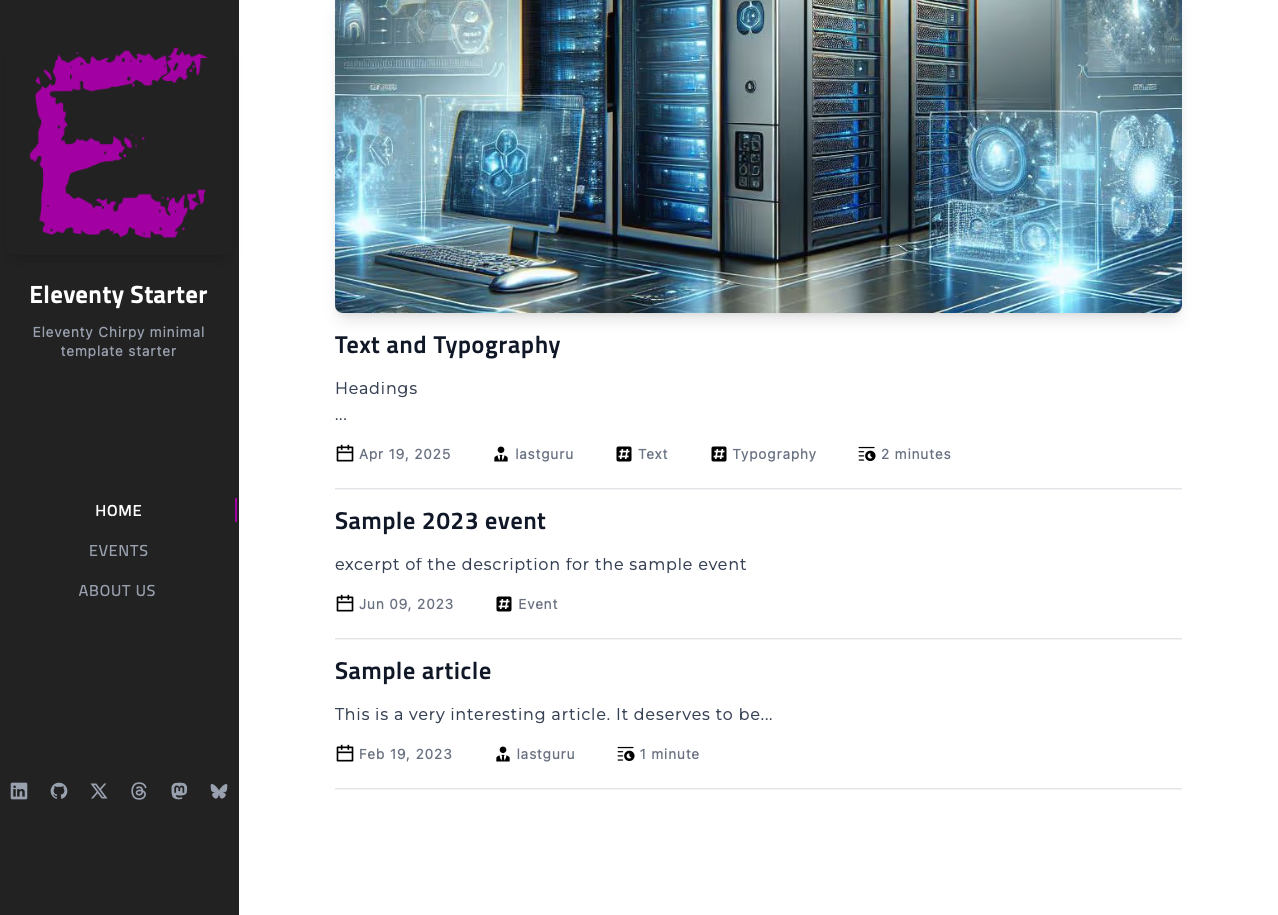
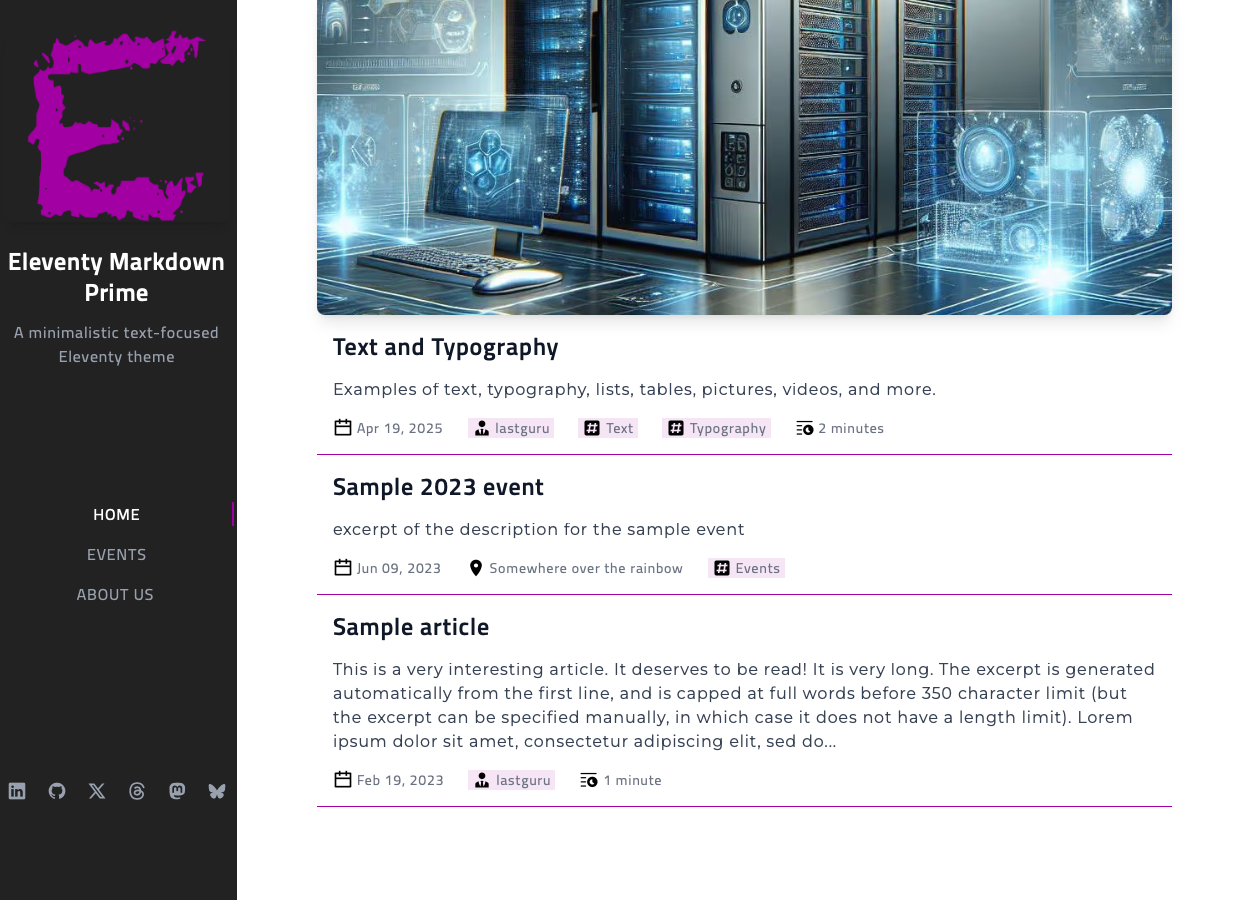
new template name and description

diff --git a/_11ty/author.js b/_11ty/author.js
@@ -3,7 +3,7 @@
 // Based on the solution suggested here: https://github.com/11ty/eleventy/issues/332#issuecomment-445236776
 // A version of tags.js from this repository
 
-import { chunk } from "lodash-es";
+import lodash from "@11ty/lodash-custom";
 import slugify from "@sindresorhus/slugify";
 
 // Collection properties that must be hardcoded here
@@ -29,7 +29,7 @@ export default eleventyConfig => {
             let tagItems = collection.getAllSorted().reverse().filter(function (item) {
                 return item.data.author && (item.data.author == tagName);
             });
-            let pagedItems = chunk(tagItems, pageSize);
+            let pagedItems = lodash.chunk(tagItems, pageSize);
             let hrefs = [];
             for (let pageNumber = 0, max = pagedItems.length; pageNumber < max; pageNumber++) {
                 hrefs[pageNumber] = linkPrefix + slugify(tagName) + '/' + (pageNumber == 0 ? '' : pageNumber + '/');

diff --git a/_11ty/tags.js b/_11ty/tags.js
@@ -39,7 +39,7 @@
     }]
 */
 
-import { chunk } from "lodash-es";
+import lodash from "@11ty/lodash-custom";
 
 // Collection properties that must be hardcoded here
 // Page size
@@ -65,7 +65,7 @@ export default eleventyConfig => {
         let tagArray = [...tagSet];
         for (let tagName of tagArray) {
             let tagItems = collection.getFilteredByTag(tagName).reverse();
-            let pagedItems = chunk(tagItems, pageSize);
+            let pagedItems = lodash.chunk(tagItems, pageSize);
             let hrefs = [];
             for (let pageNumber = 0, max = pagedItems.length; pageNumber < max; pageNumber++) {
                 hrefs[pageNumber] = linkPrefix + tagName + '/' + (pageNumber == 0 ? '' : pageNumber + '/');

diff --git a/README.md b/README.md
@@ -1,6 +1,6 @@
-# Eleventy Chirpy minimal template by lastguru
+# Eleventy Markdown Prime starter repository by lastguru
 
-A minimalistic Eleventy template, loosely based on [Eleventy Chirpy Blog Template](https://github.com/muenzpraeger/eleventy-chirpy-blog-template), inspired by [Chirpy Jekyll Theme](https://github.com/cotes2020/jekyll-theme-chirpy). It has been upgraded to Eleventy 3.0, significantly simplified and reworked, removing many features. Some features are new, some are reimplemented, and some more features will be reintroduced later. More cleanup and reworking is still needed.
+A minimalistic Eleventy starter repository for a text-based blog site, loosely based on [Eleventy Chirpy Blog Template](https://github.com/muenzpraeger/eleventy-chirpy-blog-template), inspired by [Chirpy Jekyll Theme](https://github.com/cotes2020/jekyll-theme-chirpy). It has been upgraded to Eleventy 3, significantly reworked and restructured, but keeping it simple and visually similar. Some features are new, some are reimplemented, and some more features will be reintroduced later. More cleanup and reworking is still needed.
 
 ## [Current live demo](https://emp-starter.lastguru.dev)
 
@@ -8,14 +8,18 @@ A minimalistic Eleventy template, loosely based on [Eleventy Chirpy Blog Templat
 
 ## Current features
 
-- Eleventy 3.0 theme with Tailwind CSS 4
+- Eleventy 3 theme with Tailwind CSS 4
 - Fast and minimalistic responsive design
-- Can be used for a text-based (Markdown) blog
+- Simple grayscale color palette with a configurable accent color
+- Content is exclusively pre-rendered (static site), but supports supplemental JavaScript
+- Can be used for a text-based (Markdown) blog or simple page
 - Logo, site name and main menu are placed on the left sidebar
 - Social network links on the sidebar
-- Convenient configuration
+- Automatic post (index), tag and author pages with pagination
+- Convenient configuration with many options
 - Automatic responsive image optimization (generating AVIF and WEBP with different sizes)
 - SEO optimization, OpenGraph, JSON-LD
-- PWA
+- Special pages: Error 404, robots.txt, sitemap.xml
+- Progressive Web Apps (PWA) support
 
 More features are in the works...
